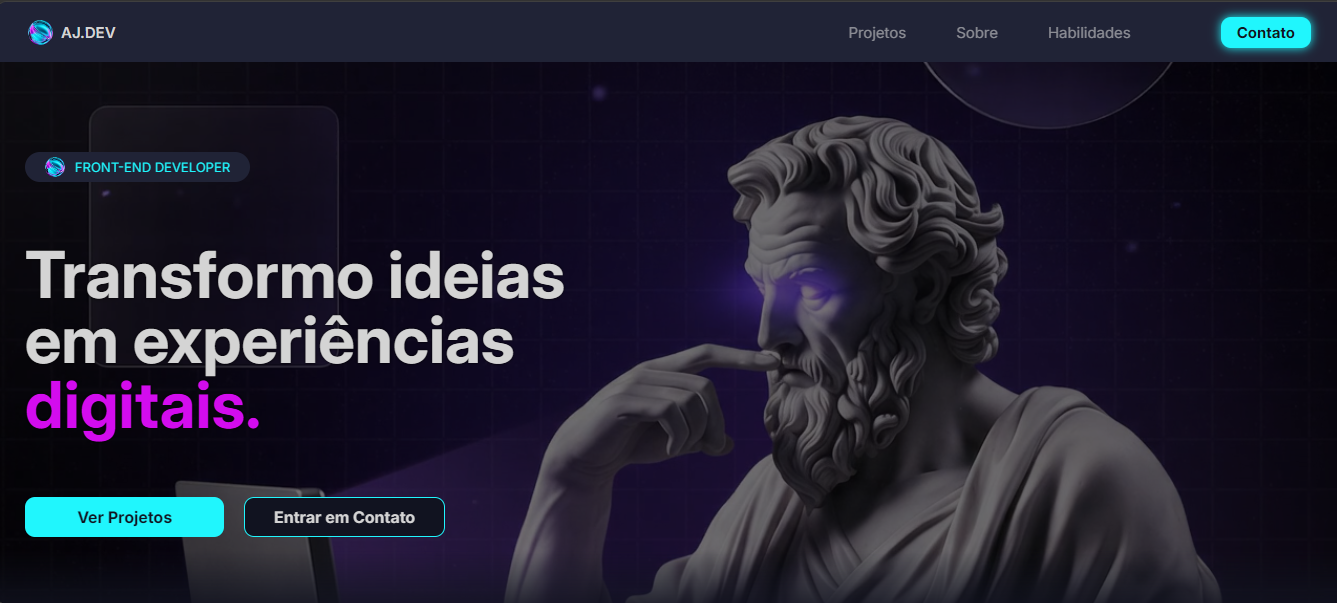
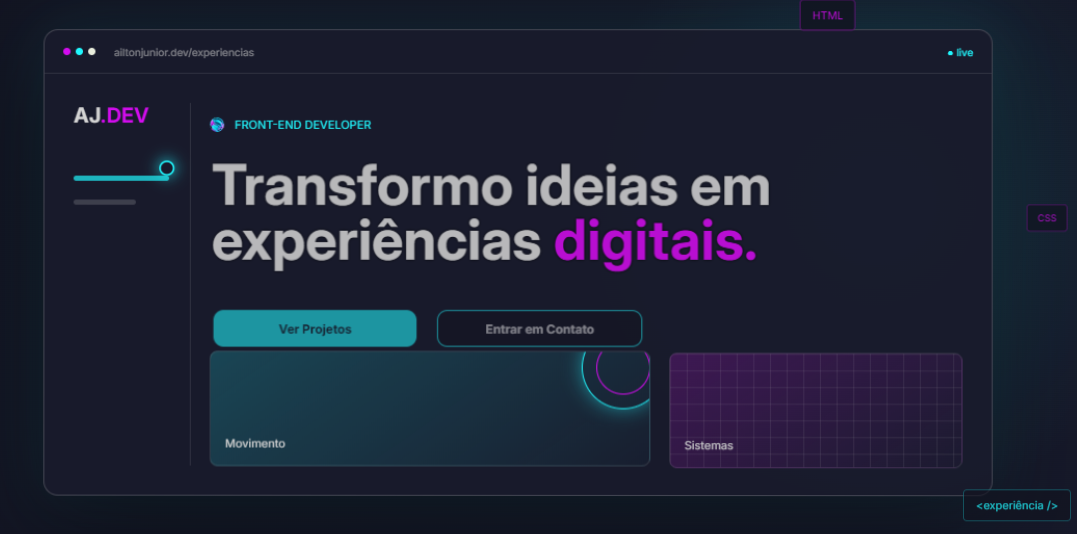
Alterações nos arquivos HTML, seção projects e na pasta img, uma imagem deletada e uma imagem adicionada.

diff --git a/index.html b/index.html
@@ -129,7 +129,7 @@
             <h3>Portfólio - Desenvolvedor Front-End</h3>
             <p>Site de Portfólio. Pensado para quem trabalha na area da tecnologia, mais exatamente na area
               da programação.</p>
-            <a href="https://jr-devfront-portfolio.netlify.app/" target="_blank" rel="noopener noreferrer">Acessar
+            <a href="https://jr-devfront-portfolio.vercel.app/" target="_blank" rel="noopener noreferrer">Acessar
               projeto</a>
           </div> <!-- Conteúdo do card -->
         </div> <!-- Card 1 -->
@@ -143,7 +143,7 @@
             <h3>Barbearia Primium</h3>
             <p>Site Barvearia. Pensado em mostrar ao cliente tudo que sua barbearia tem a oferecer,
               do bom atendimento ao corte perfeito.</p>
-            <a href="https://barbershop-primium.netlify.app/" target="_blank" rel="noopener noreferrer">Acessar
+            <a href="https://barbershop-primium.vercel.app/" target="_blank" rel="noopener noreferrer">Acessar
               projeto</a>
           </div> <!-- Conteúdo do card -->
         </div> <!-- Card 2 -->
@@ -158,7 +158,7 @@
             <p>Site Estética Automotiva. Pensado em mostrar ao cliente tudo que sua estética automotiva tende a
               oferecer,
               desde um bom atendimento ao serviço com excelência.</p>
-            <a href="https://sm-estetica-automotiva.netlify.app/" target="_blank" rel="noopener noreferrer">Acessar
+            <a href="https://sm-estetica-automotiva-bu14.vercel.app/" target="_blank" rel="noopener noreferrer">Acessar
               projeto</a>
           </div> <!-- Conteúdo do card -->
         </div> <!-- Card 3 -->
@@ -172,7 +172,7 @@
             <h3>DevClub School</h3>
             <p>Site Institucional. Pensado em ensino na area tecnologica oferecendo recursos e benefícios, desde
               transição de carreira do zero a alavancagem de nível.</p>
-            <a href="https://devclub-school.netlify.app/" target="_blank" rel="noopener noreferrer">Acessar projeto</a>
+            <a href="https://devclubschool.vercel.app/" target="_blank" rel="noopener noreferrer">Acessar projeto</a>
           </div> <!-- Conteúdo do card -->
         </div> <!-- Card 4 -->
 
@@ -185,7 +185,7 @@
             <h3>New World Tech</h3>
             <p>Site Loja Virtual. Pensado em construir um site bonito e que funciona, esse site conecta loja
               e cliente de um jeito simples e objetivo.</p>
-            <a href="https://new-world-tech.netlify.app/" target="_blank" rel="noopener noreferrer">Acessar projeto</a>
+            <a href="https://new-world-tech.vercel.app/" target="_blank" rel="noopener noreferrer">Acessar projeto</a>
           </div> <!-- Conteúdo do card -->
         </div> <!-- Card 5 -->
 
@@ -198,7 +198,8 @@
             <h3>Ninho Nichos</h3>
             <p>Site Profissional Autonomo. Pensado em mostrar seu serviço e habilidade, esse site foi fei com o intuito
               de trazer mais cliente para gerar mais crescimento ao seu negocio.</p>
-            <a href="https://ninhonichospe.netlify.app/" target="_blank" rel="noopener noreferrer">Acessar projeto</a>
+            <a href="https://ninhonichos-github-io.vercel.app/" target="_blank" rel="noopener noreferrer">Acessar
+              projeto</a>
           </div> <!-- Conteúdo do card -->
         </div> <!-- Card 6 -->
       </div> <!-- Grade de cards -->
